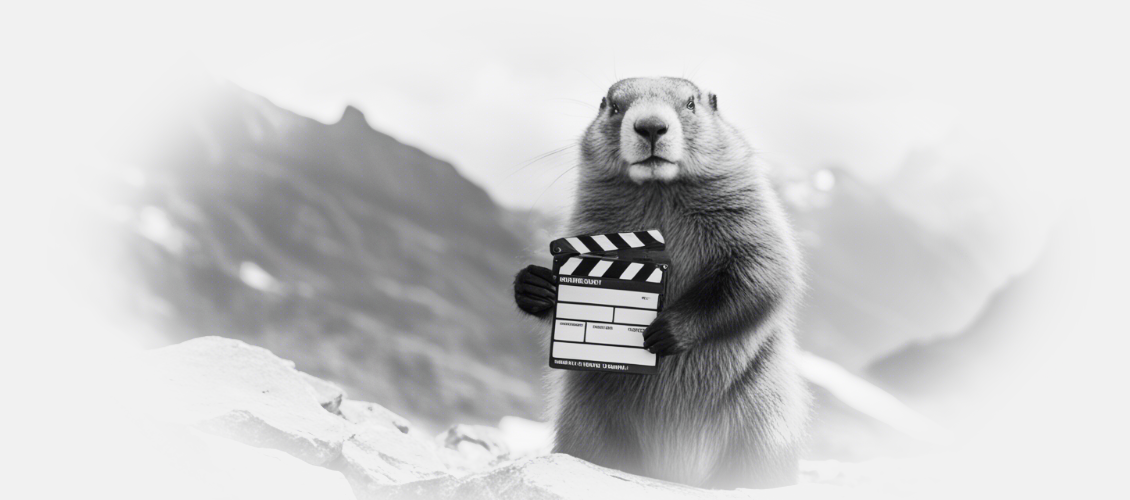
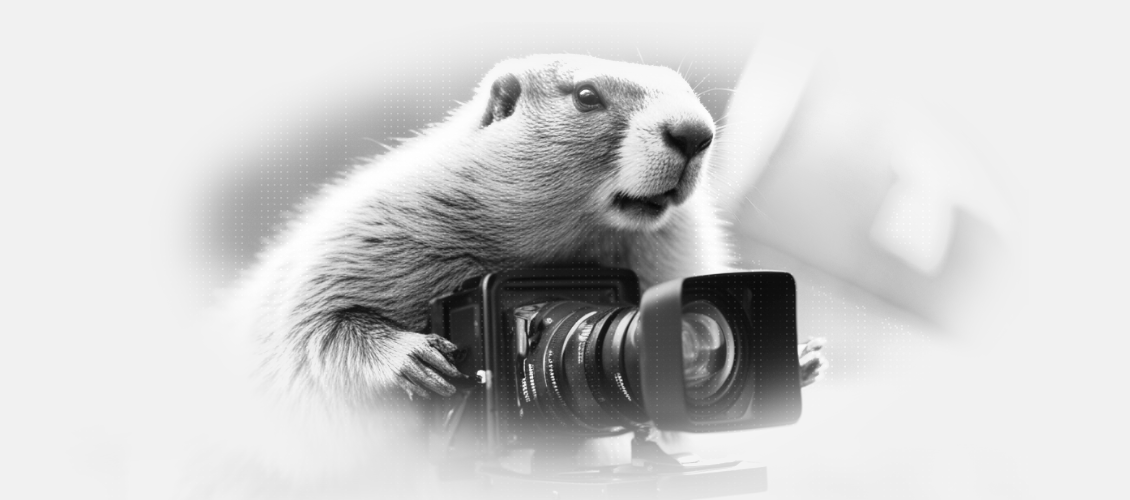
deploy: 7a80c4917655acbfe880ea75cf3cc92b382f0203

diff --git a/index.html b/index.html
@@ -1,5 +1,5 @@
 <!doctype html><html class=no-js lang=fr-CH><head><meta name=generator content="Hugo 0.124.0"><meta charset=utf-8><meta http-equiv=x-ua-compatible content="ie=edge"><meta name=viewport content="width=device-width,initial-scale=1"><title>Index - Marmotte Productions</title>
-<meta name=description content="Page index du site (texte descriptif court + liste projets en cours)"><meta name=robots content="index, follow"><link rel="shortcut icon" href=/favicon.ico><style>@font-face{font-family:open sans;font-weight:600;font-style:normal;src:url(//fonts.gstatic.com/s/opensans/v13/MTP_ySUJH_bn48VBG8sNSnZ2MAKAc2x4R1uOSeegc5U.eot);src:url(//fonts.gstatic.com/s/opensans/v13/MTP_ySUJH_bn48VBG8sNSnZ2MAKAc2x4R1uOSeegc5U.eot?#iefix)format("embedded-opentype"),url(//fonts.gstatic.com/s/opensans/v13/MTP_ySUJH_bn48VBG8sNShampu5_7CjHW5spxoeN3Vs.woff2)format("woff2"),url(//fonts.gstatic.com/s/opensans/v13/MTP_ySUJH_bn48VBG8sNSqRDOzjiPcYnFooOUGCOsRk.woff)format("woff"),url(//fonts.gstatic.com/s/opensans/v13/MTP_ySUJH_bn48VBG8sNSonF5uFdDttMLvmWuJdhhgs.ttf)format("truetype"),url(//fonts.gstatic.com/l/font?kit=MTP_ySUJH_bn48VBG8sNSllIn5tFQcqMuf-jhyJP0ps&skey=a162967ffaa5aa08&v=v13#OpenSans)format("svg")}@font-face{font-family:open sans;font-weight:700;font-style:normal;src:url(//fonts.gstatic.com/s/opensans/v13/k3k702ZOKiLJc3WVjuplzHZ2MAKAc2x4R1uOSeegc5U.eot);src:url(//fonts.gstatic.com/s/opensans/v13/k3k702ZOKiLJc3WVjuplzHZ2MAKAc2x4R1uOSeegc5U.eot?#iefix)format("embedded-opentype"),local("Open Sans Bold"),local("Open-Sans-700"),url(//fonts.gstatic.com/s/opensans/v13/k3k702ZOKiLJc3WVjuplzBampu5_7CjHW5spxoeN3Vs.woff2)format("woff2"),url(//fonts.gstatic.com/s/opensans/v13/k3k702ZOKiLJc3WVjuplzKRDOzjiPcYnFooOUGCOsRk.woff)format("woff"),url(//fonts.gstatic.com/s/opensans/v13/k3k702ZOKiLJc3WVjuplzInF5uFdDttMLvmWuJdhhgs.ttf)format("truetype"),url(//fonts.gstatic.com/l/font?kit=k3k702ZOKiLJc3WVjuplzFlIn5tFQcqMuf-jhyJP0ps&skey=cd9e1a36bb25a3c3&v=v13#OpenSans)format("svg")}@font-face{font-family:open sans;font-weight:400;font-style:normal;src:url(//fonts.gstatic.com/s/opensans/v13/cJZKeOuBrn4kERxqtaUH3fY6323mHUZFJMgTvxaG2iE.eot);src:url(//fonts.gstatic.com/s/opensans/v13/cJZKeOuBrn4kERxqtaUH3fY6323mHUZFJMgTvxaG2iE.eot?#iefix)format("embedded-opentype"),local("Open Sans"),local("Open-Sans-regular"),url(//fonts.gstatic.com/s/opensans/v13/cJZKeOuBrn4kERxqtaUH3ZBw1xU1rKptJj_0jans920.woff2)format("woff2"),url(//fonts.gstatic.com/s/opensans/v13/cJZKeOuBrn4kERxqtaUH3bO3LdcAZYWl9Si6vvxL-qU.woff)format("woff"),url(//fonts.gstatic.com/s/opensans/v13/cJZKeOuBrn4kERxqtaUH3aCWcynf_cDxXwCLxiixG1c.ttf)format("truetype"),url(//fonts.gstatic.com/l/font?kit=cJZKeOuBrn4kERxqtaUH3Zbd9NUM7myrQQz30yPaGQ4&skey=62c1cbfccc78b4b2&v=v13#OpenSans)format("svg")}html,body,div,ul,li,h1,a,img,span,p{margin:0;padding:0;border:0;font-size:100%;font:inherit;vertical-align:baseline}body{font-family:open sans,helvetica neue,Helvetica,Arial,sans-serif;font-size:62.5%;line-height:1.5;background:#fff;color:#2f2f2f;overflow-x:hidden;text-rendering:geometricPrecision;-webkit-font-smoothing:antialiased;-moz-osx-font-smoothing:grayscale;hyphens:auto;-webkit-hyphens:auto}a{color:#c21b24;text-decoration:none}a:hover{color:#c21b24}ul{list-style:none}.padder{padding-left:2em;padding-right:2em}.accent-text{color:#c21b24}.default-text{color:#2f2f2f}.bold-text{font-weight:700}.transparent{opacity:0}.break-word{overflow-wrap:break-word;word-wrap:break-word;-ms-word-break:break-all;word-break:break-word;-ms-hyphens:auto;-moz-hyphens:auto;-webkit-hyphens:auto;hyphens:auto}.clearfix:after{content:"";display:block;clear:both}.nav-container,.header{background:#f1f1f1}.navbar{position:relative;z-index:5;height:7.1em;max-height:7.1em;padding-top:2em}.logo{float:left}.logo:before{display:inline-block;vertical-align:middle;content:'';height:100%;width:0}.logo img{vertical-align:middle;margin-top:-10px}.links{visibility:hidden;opacity:0;position:absolute;top:100%;right:-2em;left:-2em;padding:1em 0;background:#f1f1f1;text-align:center;-webkit-box-shadow:0 5px 7px 0 rgba(1,1,1,.1);box-shadow:0 5px 7px rgba(1,1,1,.1);-webkit-transition:opacity .4s;-o-transition:opacity .4s;transition:opacity .4s}.links li{padding:.5em 0}.links a{color:#797979;font-size:1.8em;font-weight:600;-webkit-transition:all 500ms;-moz-transition:all 500ms;-ms-transition:all 500ms;-o-transition:all 500ms;transition:all 500ms}.links a:hover{color:#2f2f2f}.links a.active{color:#2f2f2f}.main-description{position:relative}.main-description h1{position:relative;font-size:4em;font-weight:700;line-height:1.15;padding-top:1.3em;padding-bottom:1.3em;z-index:1}.main-description img{position:absolute;bottom:0;display:block;max-width:100%;height:auto}.category{margin-top:3em}.category.line{margin:0}.category-label{font-size:1.6em;font-weight:700;text-transform:uppercase}.category-title{font-size:3em;font-weight:700;text-transform:uppercase}.category-email{color:#797979;font-size:1.4em;font-weight:600;text-transform:lowercase}.category-content{color:#797979;font-size:1.8em;font-weight:600;margin-bottom:1em}.category-bio{color:#797979;font-size:1.8em;font-weight:600}.post h1,.post h2{position:relative;font-size:2em;font-weight:600;text-transform:uppercase}.post .content{font-size:1.85em;margin-bottom:20px;text-align:justify}.posts-list{position:relative;top:0}.posts-list .year{display:inline-block;font-size:3em;font-weight:700;color:#323232;left:0;padding-top:0}.posts-list .year::before{content:"";display:block;height:1em}.posts-list .date{font-size:1.75em;font-weight:500;color:#696969;left:0;padding-top:0}.animated{-webkit-animation-duration:1s;animation-duration:1s;-webkit-animation-fill-mode:both;animation-fill-mode:both}@-webkit-keyframes slideInDown{from{-webkit-transform:translate3d(0,-100%,0);transform:translate3d(0,-100%,0);visibility:visible}to{-webkit-transform:translate3d(0,0,0);transform:translate3d(0,0,0)}}@keyframes slideInDown{from{-webkit-transform:translate3d(0,-100%,0);transform:translate3d(0,-100%,0);visibility:visible}to{-webkit-transform:translate3d(0,0,0);transform:translate3d(0,0,0)}}.slideInDown{-webkit-animation-duration:1.3s;animation-duration:1.3s;-webkit-animation-name:slideInDown;animation-name:slideInDown}@-webkit-keyframes fadeIn{0%{opacity:0}40%{opacity:0}100%{opacity:1}}@keyframes fadeIn{0%{opacity:0}40%{opacity:0}100%{opacity:1}}.fadeIn{-webkit-animation-timing-function:linear;animation-timing-function:linear;-webkit-animation-name:fadeIn;animation-name:fadeIn}@media only screen and (min-width:22.5625em){.main-description h1{font-size:4.6em;padding-top:1.923em;padding-bottom:1.923em}.category-title{margin-bottom:0}}@media only screen and (min-width:33.5625em){.main-description h1{font-size:5.2em}.post h1,.post h2{font-size:2.5em;padding-left:111px}.post .content{padding-left:111px}.posts-list{position:relative;padding-top:10px}.posts-list .year{font-size:3em;font-weight:700;width:75px}.posts-list .year::before{height:0}.posts-list .date{display:inline-block;position:absolute;transform:translateY(5px);width:130px}}@media only screen and (min-width:46.3125em){.links{visibility:visible;opacity:1;position:static;float:right;width:auto;padding:0;height:100%;-webkit-box-shadow:none;box-shadow:none}.links:before{display:inline-block;vertical-align:middle;content:'';height:100%;width:0}.links li{display:inline-block;width:auto;margin-left:4em;vertical-align:middle}.burger-holder{display:none}.showBurger .burger-holder{display:block}.showBurger .links{visibility:hidden;opacity:0;position:absolute;float:none;height:auto;padding:1em 0;-webkit-box-shadow:0 5px 7px 0 rgba(1,1,1,.1);box-shadow:0 5px 7px rgba(1,1,1,.1)}.showBurger .links:before{display:none}.showBurger .links>li{display:list-item;margin:0}.main-description h1{font-size:5.4em;line-height:1.1428;padding-top:2.3148em;padding-bottom:2.3148em}.category{width:100%;float:left}.category>div{float:left}.category-label{width:20%;margin-bottom:0}.category-content{width:80%;margin-bottom:0}.category-bio{width:80%}.category-portrait{width:20%}.projects{margin-top:5em}.portraits{margin-top:5em}}@media only screen and (min-width:58.5em){.main-description h1{padding-bottom:3.907em}.category-label{width:20%}.category-content{width:80%}.category-bio{width:59%}.category-portrait{width:41%}}@media only screen and (min-width:73.125em){.container{max-width:117em;margin:0 auto}.showBurger .links{left:-100%;right:-100%}}</style><noscript id=deferredCss><link rel=stylesheet href=/css/app.min.9026319873d87678fc90e786fdd5ae8a4442526274f5699a7a35ce4399dd2b7c.css></noscript><script>document.createElement("picture")</script><script async src=https://cdn.jsdelivr.net/npm/picturefill@3.0.3/dist/picturefill.min.js integrity="sha256-iT+n/otuaeKCgxnASny7bxKeqCDbaV1M7VdX1ZRQtqg=" crossorigin=anonymous></script></head><body><!--[if lte IE 9]><p class=browserupgrade>You are using an <strong>outdated</strong> browser. Please <a href=https://browsehappy.com/>upgrade your browser</a> to improve your experience and security.</p><![endif]--><noscript>For full functionality of this site it is necessary to enable JavaScript. Here are the <a href=//www.enable-javascript.com target=_blank rel="noreferrer nofollow">instructions how to enable JavaScript in your web browser</a>.</noscript><div class=main-container><div class=nav-container><div class=container><div class=padder><div class="navbar animated slideInDown"><div class=logo><a href=https://www.marmotteproductions.ch/><img src=/img/logo.png alt="Marmotte Productions"></a></div><div class=burger-holder><div class=burger><div class=top></div><div class=middle></div><div class=bottom></div></div></div><ul class=links><li><a href=/news>News</a></li><li><a href=/projets>Projets</a></li><li><a href=/apropos>À propos</a></li><li><a href=/contact>Contact</a></li></ul></div></div></div></div><div class=header><div class=container><div class=padder><div class="main-description animated fadeIn"><h1 class=break-word>Bienvenue dans la tanière de <span class=accent-text>Marmotte Productions</span> !</h1><picture><source media="(max-width: 46.25em)" srcset="/uploads/home-marmotte_hu8dad6634542b087b6d241bd0e58b9592_450066_848x443_fit_box_3.png 848w, /uploads/home-marmotte_hu8dad6634542b087b6d241bd0e58b9592_450066_565x420_fit_box_3.png 565w, /uploads/home-marmotte_hu8dad6634542b087b6d241bd0e58b9592_450066_360x318_fit_box_3.png 360w"><img src=/uploads/home-marmotte_hu8dad6634542b087b6d241bd0e58b9592_450066_1130x500_fill_box_smart1_3.png alt="A marmot holding a clapperboard"></picture></div></div></div></div><div class=container><div class=padder><div class="categories clearfix bottom-space"><div class=category><div class=category-label>Intro</div><div class=category-content>Marmotte Productions est une société de production de films de cinéma suisse fondée par trois associés en 2021.</div></div></div><div class="categories clearfix bottom-space"><div class=category><div class=category-label>News</div><div class=category-content><ul><li>08.03.2024 | <a href=news>Casting pour un des rôles titres de « Les Dieux » de Anas Sareen.</a></li><li>18.09.2023 | <a href=news>Les Dieux de Anas Sareen soutenu par l'OFC</a></li><li>01.07.2023 | <a href=news>Les cimes sélectionné au Forum de Namur</a></li><li>10.06.2023 | <a href=news>L'Assigné de Aude Sublet reçoit le soutien de l'OFC</a></li><li>27.03.2023 | <a href=news>Le projet « L’assigné » de Aude Sublet soutenu par Cinéforom.</a></li></ul></div></div></div><ul class="projects clearfix"><li class=project><a href=/projets/everythingistemporary><picture><source media="(max-width: 46.25em)" srcset="/uploads/films/everythingistemporary/cover_hu5453958987c5332a7f10d1059b9d4b58_1305040_848x443_fill_box_smart1_3.png 848w, /uploads/films/everythingistemporary/cover_hu5453958987c5332a7f10d1059b9d4b58_1305040_565x420_fill_box_smart1_3.png 565w, /uploads/films/everythingistemporary/cover_hu5453958987c5332a7f10d1059b9d4b58_1305040_360x318_fill_box_left_3.png 360w"><img src=/uploads/films/everythingistemporary/cover_hu5453958987c5332a7f10d1059b9d4b58_1305040_1130x590_fill_box_smart1_3.png alt></picture><div class=project-hover><div class=project-caption><div class="break-word project-title">Everything is temporary</div><div class="break-word project-type">Long-métrage documentaire
+<meta name=description content="Page index du site (texte descriptif court + liste projets en cours)"><meta name=robots content="index, follow"><link rel="shortcut icon" href=/favicon.ico><style>@font-face{font-family:open sans;font-weight:600;font-style:normal;src:url(//fonts.gstatic.com/s/opensans/v13/MTP_ySUJH_bn48VBG8sNSnZ2MAKAc2x4R1uOSeegc5U.eot);src:url(//fonts.gstatic.com/s/opensans/v13/MTP_ySUJH_bn48VBG8sNSnZ2MAKAc2x4R1uOSeegc5U.eot?#iefix)format("embedded-opentype"),url(//fonts.gstatic.com/s/opensans/v13/MTP_ySUJH_bn48VBG8sNShampu5_7CjHW5spxoeN3Vs.woff2)format("woff2"),url(//fonts.gstatic.com/s/opensans/v13/MTP_ySUJH_bn48VBG8sNSqRDOzjiPcYnFooOUGCOsRk.woff)format("woff"),url(//fonts.gstatic.com/s/opensans/v13/MTP_ySUJH_bn48VBG8sNSonF5uFdDttMLvmWuJdhhgs.ttf)format("truetype"),url(//fonts.gstatic.com/l/font?kit=MTP_ySUJH_bn48VBG8sNSllIn5tFQcqMuf-jhyJP0ps&skey=a162967ffaa5aa08&v=v13#OpenSans)format("svg")}@font-face{font-family:open sans;font-weight:700;font-style:normal;src:url(//fonts.gstatic.com/s/opensans/v13/k3k702ZOKiLJc3WVjuplzHZ2MAKAc2x4R1uOSeegc5U.eot);src:url(//fonts.gstatic.com/s/opensans/v13/k3k702ZOKiLJc3WVjuplzHZ2MAKAc2x4R1uOSeegc5U.eot?#iefix)format("embedded-opentype"),local("Open Sans Bold"),local("Open-Sans-700"),url(//fonts.gstatic.com/s/opensans/v13/k3k702ZOKiLJc3WVjuplzBampu5_7CjHW5spxoeN3Vs.woff2)format("woff2"),url(//fonts.gstatic.com/s/opensans/v13/k3k702ZOKiLJc3WVjuplzKRDOzjiPcYnFooOUGCOsRk.woff)format("woff"),url(//fonts.gstatic.com/s/opensans/v13/k3k702ZOKiLJc3WVjuplzInF5uFdDttMLvmWuJdhhgs.ttf)format("truetype"),url(//fonts.gstatic.com/l/font?kit=k3k702ZOKiLJc3WVjuplzFlIn5tFQcqMuf-jhyJP0ps&skey=cd9e1a36bb25a3c3&v=v13#OpenSans)format("svg")}@font-face{font-family:open sans;font-weight:400;font-style:normal;src:url(//fonts.gstatic.com/s/opensans/v13/cJZKeOuBrn4kERxqtaUH3fY6323mHUZFJMgTvxaG2iE.eot);src:url(//fonts.gstatic.com/s/opensans/v13/cJZKeOuBrn4kERxqtaUH3fY6323mHUZFJMgTvxaG2iE.eot?#iefix)format("embedded-opentype"),local("Open Sans"),local("Open-Sans-regular"),url(//fonts.gstatic.com/s/opensans/v13/cJZKeOuBrn4kERxqtaUH3ZBw1xU1rKptJj_0jans920.woff2)format("woff2"),url(//fonts.gstatic.com/s/opensans/v13/cJZKeOuBrn4kERxqtaUH3bO3LdcAZYWl9Si6vvxL-qU.woff)format("woff"),url(//fonts.gstatic.com/s/opensans/v13/cJZKeOuBrn4kERxqtaUH3aCWcynf_cDxXwCLxiixG1c.ttf)format("truetype"),url(//fonts.gstatic.com/l/font?kit=cJZKeOuBrn4kERxqtaUH3Zbd9NUM7myrQQz30yPaGQ4&skey=62c1cbfccc78b4b2&v=v13#OpenSans)format("svg")}html,body,div,ul,li,h1,a,img,span,p{margin:0;padding:0;border:0;font-size:100%;font:inherit;vertical-align:baseline}body{font-family:open sans,helvetica neue,Helvetica,Arial,sans-serif;font-size:62.5%;line-height:1.5;background:#fff;color:#2f2f2f;overflow-x:hidden;text-rendering:geometricPrecision;-webkit-font-smoothing:antialiased;-moz-osx-font-smoothing:grayscale;hyphens:auto;-webkit-hyphens:auto}a{color:#c21b24;text-decoration:none}a:hover{color:#c21b24}ul{list-style:none}.padder{padding-left:2em;padding-right:2em}.accent-text{color:#c21b24}.default-text{color:#2f2f2f}.bold-text{font-weight:700}.transparent{opacity:0}.break-word{overflow-wrap:break-word;word-wrap:break-word;-ms-word-break:break-all;word-break:break-word;-ms-hyphens:auto;-moz-hyphens:auto;-webkit-hyphens:auto;hyphens:auto}.clearfix:after{content:"";display:block;clear:both}.nav-container,.header{background:#f1f1f1}.navbar{position:relative;z-index:5;height:7.1em;max-height:7.1em;padding-top:2em}.logo{float:left}.logo:before{display:inline-block;vertical-align:middle;content:'';height:100%;width:0}.logo img{vertical-align:middle;margin-top:-10px}.links{visibility:hidden;opacity:0;position:absolute;top:100%;right:-2em;left:-2em;padding:1em 0;background:#f1f1f1;text-align:center;-webkit-box-shadow:0 5px 7px 0 rgba(1,1,1,.1);box-shadow:0 5px 7px rgba(1,1,1,.1);-webkit-transition:opacity .4s;-o-transition:opacity .4s;transition:opacity .4s}.links li{padding:.5em 0}.links a{color:#797979;font-size:1.8em;font-weight:600;-webkit-transition:all 500ms;-moz-transition:all 500ms;-ms-transition:all 500ms;-o-transition:all 500ms;transition:all 500ms}.links a:hover{color:#2f2f2f}.links a.active{color:#2f2f2f}.main-description{position:relative}.main-description h1{position:relative;font-size:4em;font-weight:700;line-height:1.15;padding-top:1.3em;padding-bottom:1.3em;z-index:1}.main-description img{position:absolute;bottom:0;display:block;max-width:100%;height:auto}.category{margin-top:3em}.category.line{margin:0}.category-label{font-size:1.6em;font-weight:700;text-transform:uppercase}.category-title{font-size:3em;font-weight:700;text-transform:uppercase}.category-email{color:#797979;font-size:1.4em;font-weight:600;text-transform:lowercase}.category-content{color:#797979;font-size:1.8em;font-weight:600;margin-bottom:1em}.category-bio{color:#797979;font-size:1.8em;font-weight:600}.post h1,.post h2{position:relative;font-size:2em;font-weight:600;text-transform:uppercase}.post .content{font-size:1.85em;margin-bottom:20px;text-align:justify}.posts-list{position:relative;top:0}.posts-list .year{display:inline-block;font-size:3em;font-weight:700;color:#323232;left:0;padding-top:0}.posts-list .year::before{content:"";display:block;height:1em}.posts-list .date{font-size:1.75em;font-weight:500;color:#696969;left:0;padding-top:0}.animated{-webkit-animation-duration:1s;animation-duration:1s;-webkit-animation-fill-mode:both;animation-fill-mode:both}@-webkit-keyframes slideInDown{from{-webkit-transform:translate3d(0,-100%,0);transform:translate3d(0,-100%,0);visibility:visible}to{-webkit-transform:translate3d(0,0,0);transform:translate3d(0,0,0)}}@keyframes slideInDown{from{-webkit-transform:translate3d(0,-100%,0);transform:translate3d(0,-100%,0);visibility:visible}to{-webkit-transform:translate3d(0,0,0);transform:translate3d(0,0,0)}}.slideInDown{-webkit-animation-duration:1.3s;animation-duration:1.3s;-webkit-animation-name:slideInDown;animation-name:slideInDown}@-webkit-keyframes fadeIn{0%{opacity:0}40%{opacity:0}100%{opacity:1}}@keyframes fadeIn{0%{opacity:0}40%{opacity:0}100%{opacity:1}}.fadeIn{-webkit-animation-timing-function:linear;animation-timing-function:linear;-webkit-animation-name:fadeIn;animation-name:fadeIn}@media only screen and (min-width:22.5625em){.main-description h1{font-size:4.6em;padding-top:1.923em;padding-bottom:1.923em}.category-title{margin-bottom:0}}@media only screen and (min-width:33.5625em){.main-description h1{font-size:5.2em}.post h1,.post h2{font-size:2.5em;padding-left:111px}.post .content{padding-left:111px}.posts-list{position:relative;padding-top:10px}.posts-list .year{font-size:3em;font-weight:700;width:75px}.posts-list .year::before{height:0}.posts-list .date{display:inline-block;position:absolute;transform:translateY(5px);width:130px}}@media only screen and (min-width:46.3125em){.links{visibility:visible;opacity:1;position:static;float:right;width:auto;padding:0;height:100%;-webkit-box-shadow:none;box-shadow:none}.links:before{display:inline-block;vertical-align:middle;content:'';height:100%;width:0}.links li{display:inline-block;width:auto;margin-left:4em;vertical-align:middle}.burger-holder{display:none}.showBurger .burger-holder{display:block}.showBurger .links{visibility:hidden;opacity:0;position:absolute;float:none;height:auto;padding:1em 0;-webkit-box-shadow:0 5px 7px 0 rgba(1,1,1,.1);box-shadow:0 5px 7px rgba(1,1,1,.1)}.showBurger .links:before{display:none}.showBurger .links>li{display:list-item;margin:0}.main-description h1{font-size:5.4em;line-height:1.1428;padding-top:2.3148em;padding-bottom:2.3148em}.category{width:100%;float:left}.category>div{float:left}.category-label{width:20%;margin-bottom:0}.category-content{width:80%;margin-bottom:0}.category-bio{width:80%}.category-portrait{width:20%}.projects{margin-top:5em}.portraits{margin-top:5em}}@media only screen and (min-width:58.5em){.main-description h1{padding-bottom:3.907em}.category-label{width:20%}.category-content{width:80%}.category-bio{width:59%}.category-portrait{width:41%}}@media only screen and (min-width:73.125em){.container{max-width:117em;margin:0 auto}.showBurger .links{left:-100%;right:-100%}}</style><noscript id=deferredCss><link rel=stylesheet href=/css/app.min.9026319873d87678fc90e786fdd5ae8a4442526274f5699a7a35ce4399dd2b7c.css></noscript><script>document.createElement("picture")</script><script async src=https://cdn.jsdelivr.net/npm/picturefill@3.0.3/dist/picturefill.min.js integrity="sha256-iT+n/otuaeKCgxnASny7bxKeqCDbaV1M7VdX1ZRQtqg=" crossorigin=anonymous></script></head><body><!--[if lte IE 9]><p class=browserupgrade>You are using an <strong>outdated</strong> browser. Please <a href=https://browsehappy.com/>upgrade your browser</a> to improve your experience and security.</p><![endif]--><noscript>For full functionality of this site it is necessary to enable JavaScript. Here are the <a href=//www.enable-javascript.com target=_blank rel="noreferrer nofollow">instructions how to enable JavaScript in your web browser</a>.</noscript><div class=main-container><div class=nav-container><div class=container><div class=padder><div class="navbar animated slideInDown"><div class=logo><a href=https://www.marmotteproductions.ch/><img src=/img/logo.png alt="Marmotte Productions"></a></div><div class=burger-holder><div class=burger><div class=top></div><div class=middle></div><div class=bottom></div></div></div><ul class=links><li><a href=/news>News</a></li><li><a href=/projets>Projets</a></li><li><a href=/apropos>À propos</a></li><li><a href=/contact>Contact</a></li></ul></div></div></div></div><div class=header><div class=container><div class=padder><div class="main-description animated fadeIn"><h1 class=break-word>Bienvenue dans la tanière de <span class=accent-text>Marmotte Productions</span> !</h1><picture><source media="(max-width: 46.25em)" srcset="/uploads/home-marmotte_hu710a7e2de70ec3a0f33ab6773c24ce89_263610_848x443_fit_box_3.png 848w, /uploads/home-marmotte_hu710a7e2de70ec3a0f33ab6773c24ce89_263610_565x420_fit_box_3.png 565w, /uploads/home-marmotte_hu710a7e2de70ec3a0f33ab6773c24ce89_263610_360x318_fit_box_3.png 360w"><img src=/uploads/home-marmotte_hu710a7e2de70ec3a0f33ab6773c24ce89_263610_1130x500_fill_box_smart1_3.png alt="A marmot holding a clapperboard"></picture></div></div></div></div><div class=container><div class=padder><div class="categories clearfix bottom-space"><div class=category><div class=category-label>Intro</div><div class=category-content>Marmotte Productions est une société de production de films de cinéma suisse fondée par trois associés en 2021.</div></div></div><div class="categories clearfix bottom-space"><div class=category><div class=category-label>News</div><div class=category-content><ul><li>08.03.2024 | <a href=news>Casting pour un des rôles titres de « Les Dieux » de Anas Sareen.</a></li><li>18.09.2023 | <a href=news>Les Dieux de Anas Sareen soutenu par l'OFC</a></li><li>01.07.2023 | <a href=news>Les cimes sélectionné au Forum de Namur</a></li><li>10.06.2023 | <a href=news>L'Assigné de Aude Sublet reçoit le soutien de l'OFC</a></li><li>27.03.2023 | <a href=news>Le projet « L’assigné » de Aude Sublet soutenu par Cinéforom.</a></li></ul></div></div></div><ul class="projects clearfix"><li class=project><a href=/projets/everythingistemporary><picture><source media="(max-width: 46.25em)" srcset="/uploads/films/everythingistemporary/cover_hu5453958987c5332a7f10d1059b9d4b58_1305040_848x443_fill_box_smart1_3.png 848w, /uploads/films/everythingistemporary/cover_hu5453958987c5332a7f10d1059b9d4b58_1305040_565x420_fill_box_smart1_3.png 565w, /uploads/films/everythingistemporary/cover_hu5453958987c5332a7f10d1059b9d4b58_1305040_360x318_fill_box_left_3.png 360w"><img src=/uploads/films/everythingistemporary/cover_hu5453958987c5332a7f10d1059b9d4b58_1305040_1130x590_fill_box_smart1_3.png alt></picture><div class=project-hover><div class=project-caption><div class="break-word project-title">Everything is temporary</div><div class="break-word project-type">Long-métrage documentaire
 de
 Juliette Klinke</div><div class="break-word project-pitch">En août 2020, Juliette part au Myanmar pour rejoindre son compagnon. Elle y rencontre Zu Zu, jeune fille de 17 ans qui tient un stand de nourriture au bord d’une route. Zu Zu attend que les universités fermées à cause du Covid ouvrent à nouveau, afin de pouvoir réaliser son rêve de devenir policière. Progressivement, une forte relation se crée entre les deux jeunes femmes. Le 1er février 2021, le pays subit un coup d'État militaire, qui mène à mal les ambitions de Zu Zu et piège Juliette au Myanmar. Leur attachement profond l’une pour l’autre devient alors leur refuge.</div></div></div></a></li></ul><ul class="projects clearfix"><li class=project><a href=/projets/laluneseleve><picture><source media="(max-width: 46.25em)" srcset="/uploads/films/laluneseleve/cover_hue3f89e3879bf76fdf97a69fc09f95a77_1116120_848x443_fill_q75_box_smart1.jpg 848w, /uploads/films/laluneseleve/cover_hue3f89e3879bf76fdf97a69fc09f95a77_1116120_565x420_fill_q75_box_smart1.jpg 565w, /uploads/films/laluneseleve/cover_hue3f89e3879bf76fdf97a69fc09f95a77_1116120_360x318_fill_q75_box_left.jpg 360w"><img src=/uploads/films/laluneseleve/cover_hue3f89e3879bf76fdf97a69fc09f95a77_1116120_1130x590_fill_q75_box_smart1.jpg alt></picture><div class=project-hover><div class=project-caption><div class="break-word project-title">La lune se lève</div><div class="break-word project-type">Court-métrage de fiction
 de
